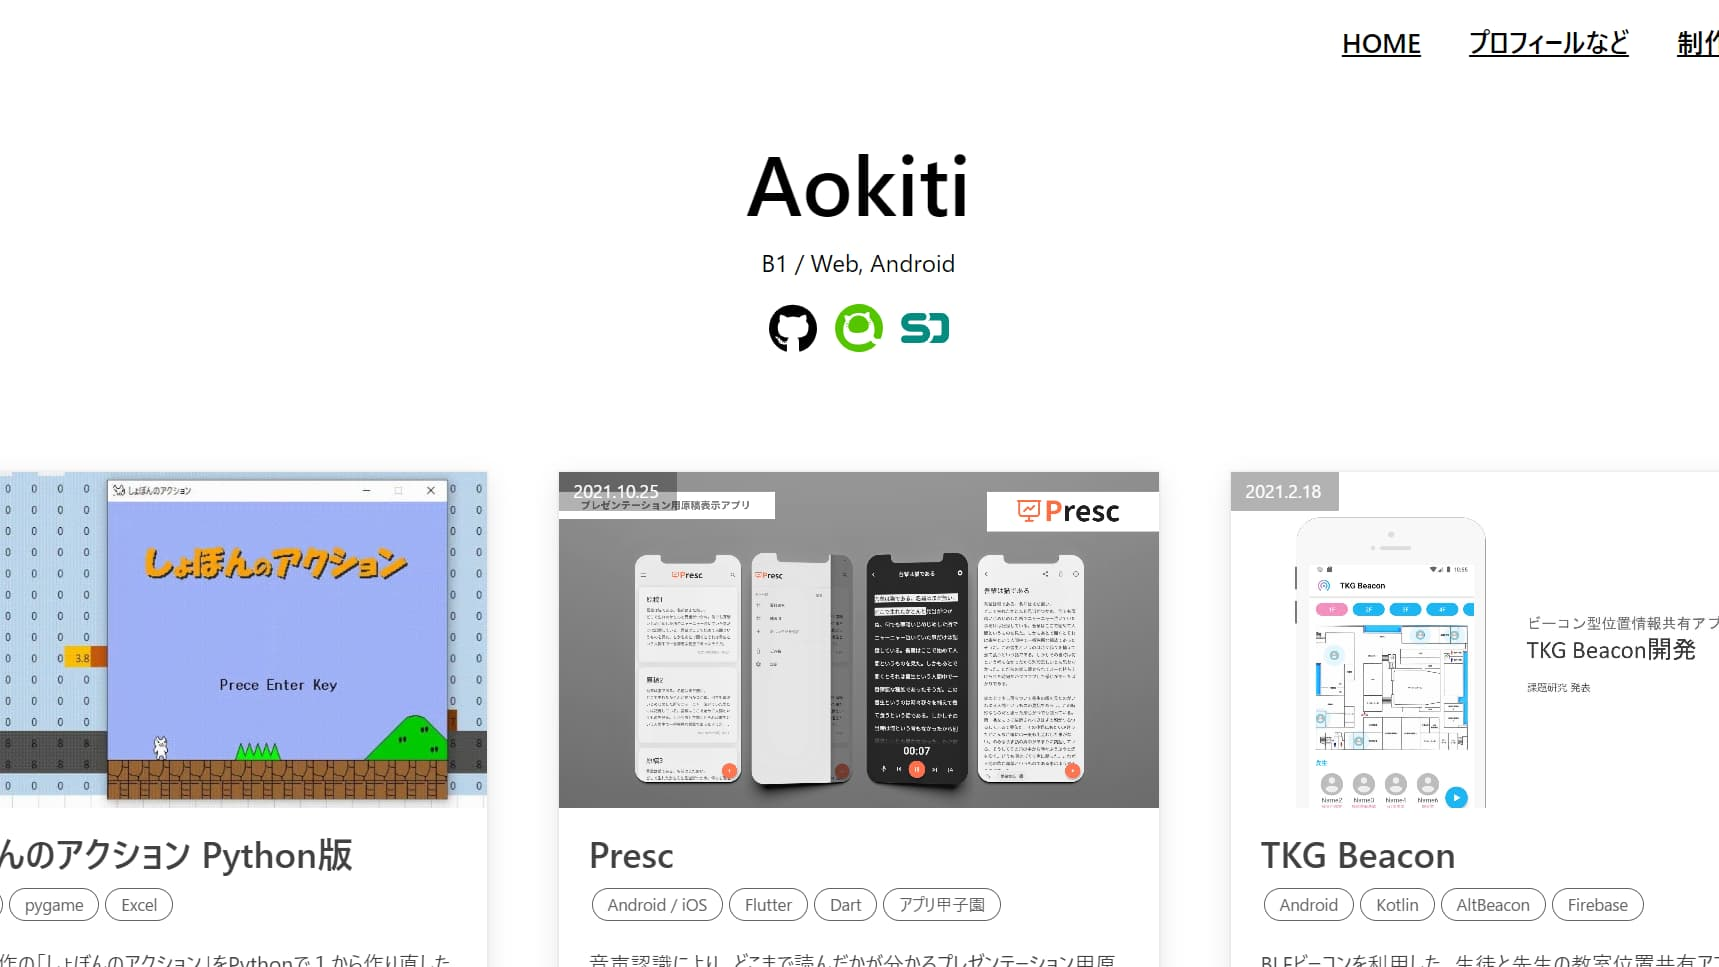
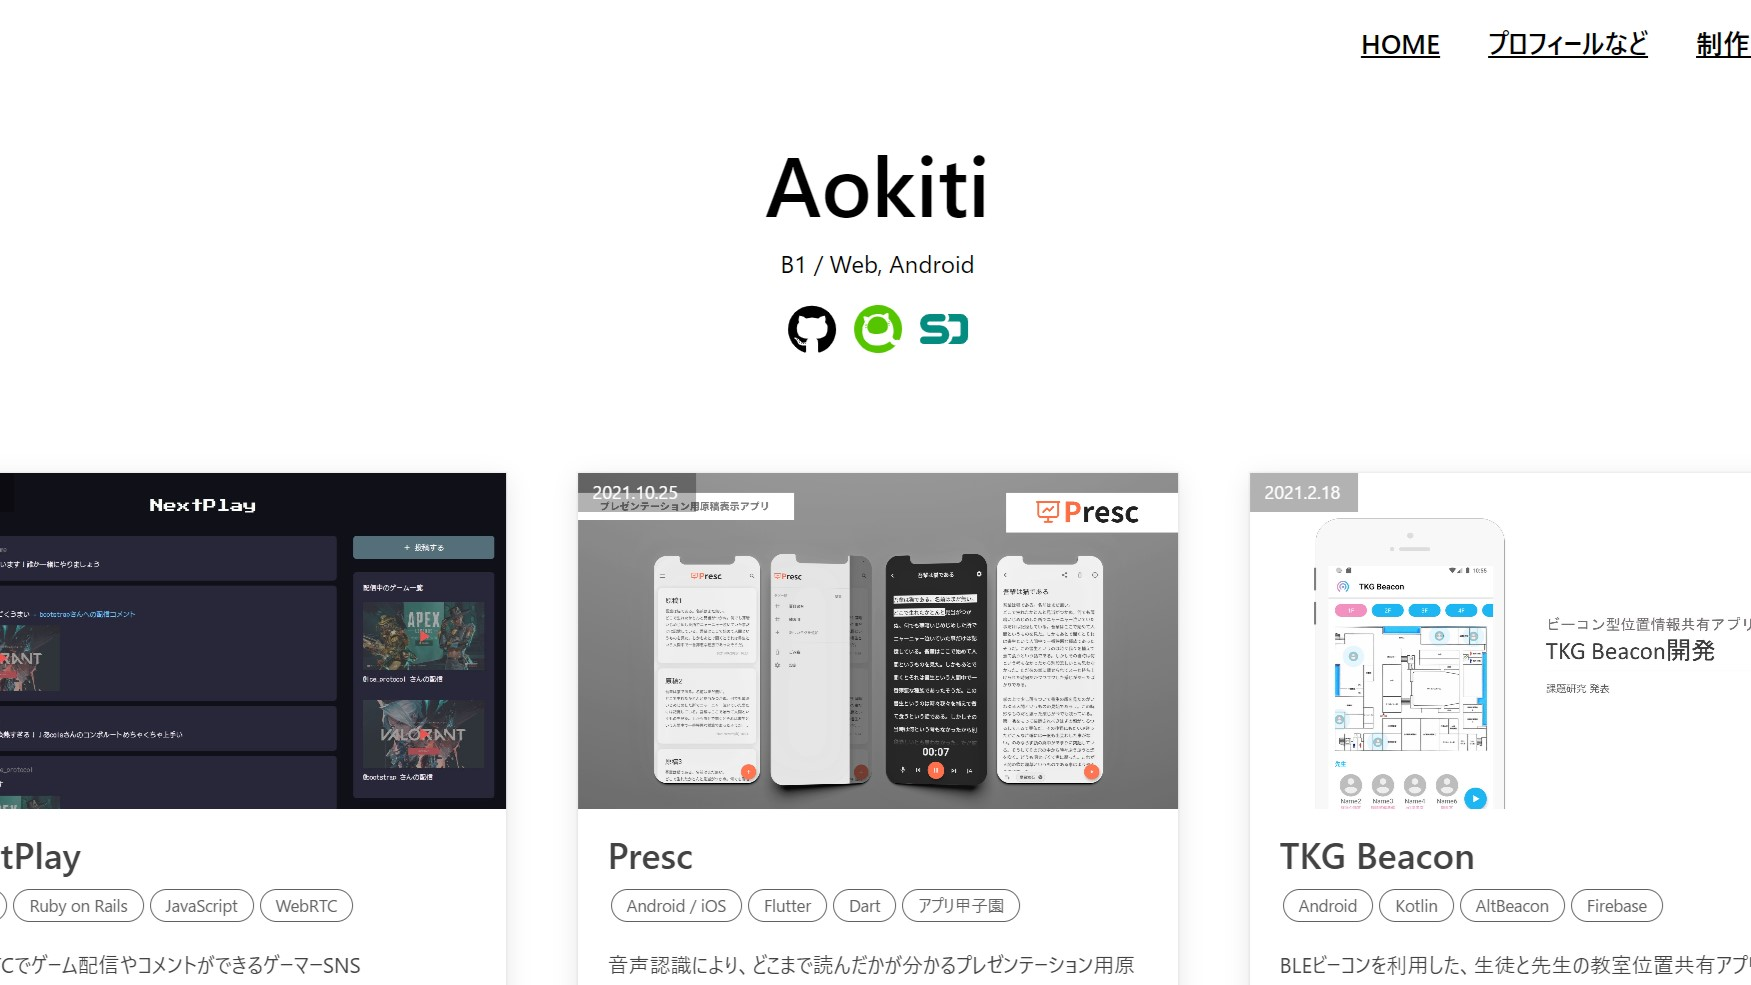
Update top page

diff --git a/src/components/organism/PostsList/PostsList.tsx b/src/components/organism/PostsList/PostsList.tsx
@@ -54,6 +54,16 @@ const PostsList = () => {
                   overview="ちくさん制作の「しょぼんのアクション」をPythonで１から作り直したもの" />
           </div>
         </SplideSlide>
+        <SplideSlide>
+          <div className={postList.card}>
+            <Post date="2024.1.19"
+                  imageUrl="/posts/next-play/thumbnail.jpg"
+                  href="/posts/next-play"
+                  title="NextPlay"
+                  tag={["Ruby", "Ruby on Rails", "JavaScript", "WebRTC"]}
+                  overview="WebRTCでゲーム配信やコメントができるゲーマーSNS" />
+          </div>
+        </SplideSlide>
       </Splide>
     </div>
     <div className={postList.button}>

diff --git a/src/pages/index.tsx b/src/pages/index.tsx
@@ -59,7 +59,7 @@ const Index = () => {
                 Webアプリ作成、Apacheなど
               </SkillsItem>
               <SkillsItem title="Ruby">
-                授業で使用。Railsを用いたWebアプリを作成
+                授業で使用。Railsを用いたSNSサイトを作成
               </SkillsItem>
               <SkillsItem title="C">
                 高校のプログラミングの授業で使用

diff --git a/posts/next-play.md b/posts/next-play.md
@@ -1,7 +1,7 @@
 ---
 title: NextPlay
 tag: Ruby, Ruby on Rails, JavaScript, WebRTC
-overview: WebRTCでゲーム配信やコメントができるSNS
+overview: WebRTCでゲーム配信やコメントができるゲーマーSNS
 date: 2024.1.19
 ---
 
